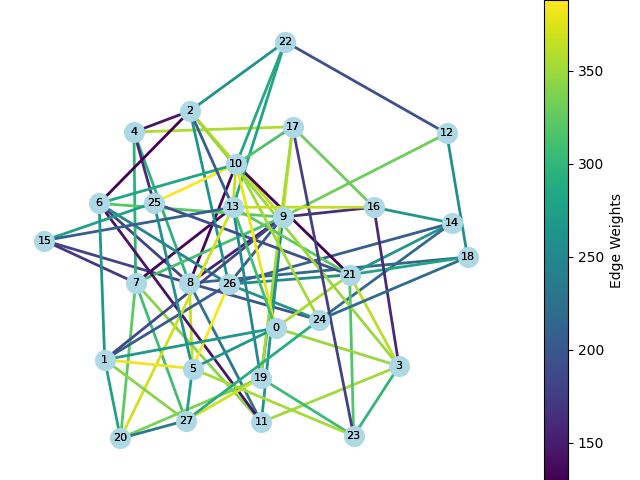
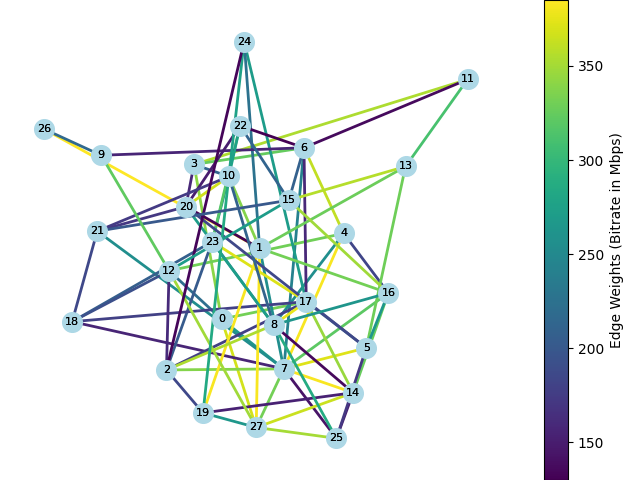
refactor this code a little bit

diff --git a/graph_visualizations.py b/graph_visualizations.py
@@ -1,55 +1,5 @@
-import networkx as nx
-import matplotlib.pyplot as plt
-import pandas as pd
-import numpy as np
+from visualize_graph import vizualization
 
-
-"""
-This code generate a graph with nodes and edges as a bitrate. It may help with understanding the problem.
-Image is saved in img directory as 'graph.png'
-"""
-
-# Load your data
-data = pd.read_csv("Euro28/request-set_1/requests.csv")
-
-# Create a weighted graph
-G = nx.Graph()
-
-source = np.array(data["source"])
-destination = np.array(data["destination"])
-weight = np.array(data["bitrate"])
-
-# Normalize the weight values
-normalized_weights = (weight - np.min(weight)) / (np.max(weight) - np.min(weight))
-
-for i in range(len(data)):
-    # Add weighted edges
-    G.add_edge(source[i], destination[i], weight=normalized_weights[i])
-
-# Set node attributes for visualization
-node_size = 200  # Adjust the size of the nodes
-node_color = 'lightblue'
-
-# Create a colormap to represent edge weights
-cmap = plt.get_cmap('viridis')
-
-# Customize the layout
-pos = nx.spring_layout(G, seed=42)  # Seed for reproducibility
-
-# Draw the graph with edge colors
-edge_colors = [cmap(w) for w in normalized_weights]
-nx.draw(G, pos, with_labels=True, node_size=node_size, node_color=node_color, font_size=8, font_color='black',
-        width=2, edge_color=edge_colors)
-
-# Add labels to the nodes
-node_labels = {node: node for node in G.nodes()}
-nx.draw_networkx_labels(G, pos, labels=node_labels, font_size=8)
-
-# Create a color bar for edge colors
-sm = plt.cm.ScalarMappable(cmap=cmap, norm=plt.Normalize(vmin=weight.min(), vmax=weight.max()))
-sm.set_array([])
-plt.colorbar(sm, label="Edge Weights")
-
-plt.tight_layout()
-plt.axis('off')
-plt.savefig("img/graph.png")
+path_to_data = "Euro28/request-set_0/requests.csv"
+save_path = "img/graph.png"
+vizualization(path_to_data=path_to_data, save_path=save_path)

diff --git a/visualize_graph.py b/visualize_graph.py
@@ -1,0 +1,51 @@
+import networkx as nx
+import matplotlib.pyplot as plt
+import pandas as pd
+import numpy as np
+import warnings
+
+def vizualization(path_to_data: str, save_path: str) -> None:
+    warnings.filterwarnings("ignore")
+    # Load your data
+    data = pd.read_csv(path_to_data)
+
+    # Create a weighted graph
+    G = nx.Graph()
+
+    source = np.array(data["source"])
+    destination = np.array(data["destination"])
+    weight = np.array(data["bitrate"])
+
+    # Normalize the weight values
+    normalized_weights = (weight - np.min(weight)) / (np.max(weight) - np.min(weight))
+
+    for i in range(len(data)):
+        G.add_edge(source[i], destination[i], weight=normalized_weights[i])
+
+    # Set node attributes for visualization
+    node_size = 200
+    node_color = 'lightblue'
+
+    # Create a colormap to represent edge weights
+    cmap = plt.get_cmap('viridis')
+
+    # Customize the layout
+    pos = nx.spring_layout(G, seed=42)
+
+    # Draw the graph with edge colors
+    edge_colors = [cmap(w) for w in normalized_weights]
+    nx.draw(G, pos, with_labels=True, node_size=node_size, node_color=node_color, font_size=8, font_color='black',
+            width=2, edge_color=edge_colors)
+
+    # Add labels to the nodes
+    node_labels = {node: node for node in G.nodes()}
+    nx.draw_networkx_labels(G, pos, labels=node_labels, font_size=8)
+
+    # Create a color bar for edge colors
+    sm = plt.cm.ScalarMappable(cmap=cmap, norm=plt.Normalize(vmin=weight.min(), vmax=weight.max()))
+    sm.set_array([])
+    plt.colorbar(sm, label="Edge Weights (Bitrate in Mbps)")
+
+    plt.tight_layout()
+    plt.axis('off')
+    plt.savefig(save_path)
